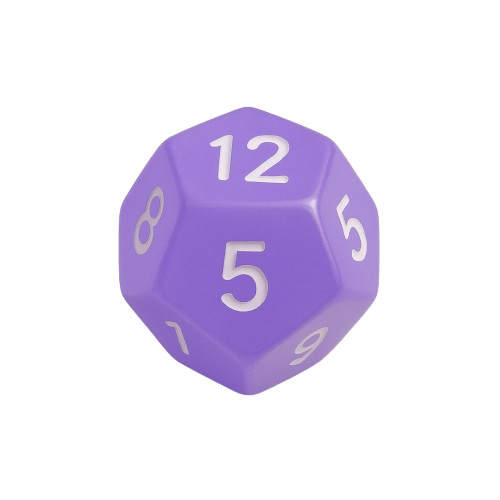
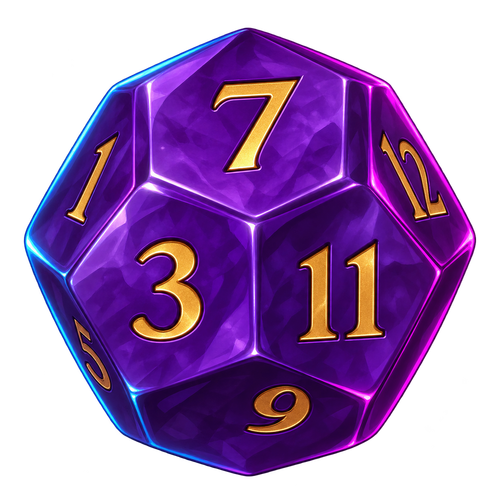
regened dice imgs... still wonky

diff --git a/src/lib/stores/dice.ts b/src/lib/stores/dice.ts
@@ -2,19 +2,19 @@ export class PolyhedralDice {
   numOfSides: number;
   imgUrl: string;
 
-  constructor(numOfSides: number, imgUrl:  string) {
+  constructor(numOfSides: number, imgUrl: string) {
     this.numOfSides = numOfSides;
     this.imgUrl = imgUrl;
   }
 
-  roll() {
+  roll(): number {
     return Math.ceil(Math.random() * this.numOfSides);
   }
 }
 
-export let d4Dice = new PolyhedralDice(4, 'media/minigames/dice/d4-dice.png');
-export let d6Dice = new PolyhedralDice(6, 'media/minigames/dice/d6-dice.png');
-export let d8Dice = new PolyhedralDice(8, 'media/minigames/dice/d8-dice.png');
-export let d10Dice = new PolyhedralDice(10, 'media/minigames/dice/d10-dice.png');
-export let d12Dice = new PolyhedralDice(12, 'media/minigames/dice/d12-dice.png');
-export let d20Dice = new PolyhedralDice(20, 'media/minigames/dice/d20-dice.png');
+export const d4Dice = new PolyhedralDice(4, 'media/minigames/dice/d4-dice.png');
+export const d6Dice = new PolyhedralDice(6, 'media/minigames/dice/d6-dice.png');
+export const d8Dice = new PolyhedralDice(8, 'media/minigames/dice/d8-dice.png');
+export const d10Dice = new PolyhedralDice(10, 'media/minigames/dice/d10-dice.png');
+export const d12Dice = new PolyhedralDice(12, 'media/minigames/dice/d12-dice.png');
+export const d20Dice = new PolyhedralDice(20, 'media/minigames/dice/d20-dice.png');

diff --git a/src/lib/components/Dice.svelte b/src/lib/components/Dice.svelte
@@ -1,7 +1,6 @@
 <script lang="ts">
-  // Types
   import type { PolyhedralDice } from '../stores/dice';
-  // Props
+
   export let dice: PolyhedralDice;
 </script>
 
@@ -10,10 +9,7 @@
   role="img"
   aria-label="One {dice.numOfSides}-sided die"
 ></div>
-<!-- PROMPT I USE FOR GENERATING DICE WITH COPILOT
- A single orange 20 sided-sided die with the color code #d6a74152, isolated on a plain background. The die should be centered in the image, well-lit, and clearly show its faces with numbers.
- No other objects or background elements should be present. The style should be clean and realistic, suitable for use as artwork in a dice roll app.
--->
+
 <style lang="scss">
   .dice {
     height: 200px;
@@ -24,7 +20,7 @@
     background-position: center;
     background-size: 100%;
   }
-  
+
   .dice-d4 {
     background-image: url('/media/minigames/dice/d4-dice.png');
     background-color: #9dffa652;

diff --git a/docs/art-direction.md b/docs/art-direction.md
@@ -1,0 +1,34 @@
+# Deja Vu art direction
+
+Use these visual keywords as the shared direction for generated game artwork:
+
+- Neon rim lighting
+- Cyan and magenta glow
+- Chromatic aberration
+- Glitch effects
+- Holographic display
+- Synthwave color palette
+- Futuristic megacity
+- Anime cel shading
+- High-contrast lighting
+- Volumetric neon fog
+- Digital noise
+- Electric atmosphere
+- Hyper-saturated colors
+- Night cityscape
+- Cybernetic implants
+
+Not every asset needs every treatment. Functional interface assets should remain immediately
+recognizable first, using the shared lighting and palette as restrained accents.
+
+## Dice palette
+
+- D4: green
+- D6: blue
+- D8: red/coral
+- D10: hot pink
+- D12: purple
+- D20: amber/gold
+
+Dice use traditional tabletop geometry with exactly one valid numeral per face. They should read
+as ordinary resin dice with neon rim lighting, never as machines, alien artifacts, or magical items.
